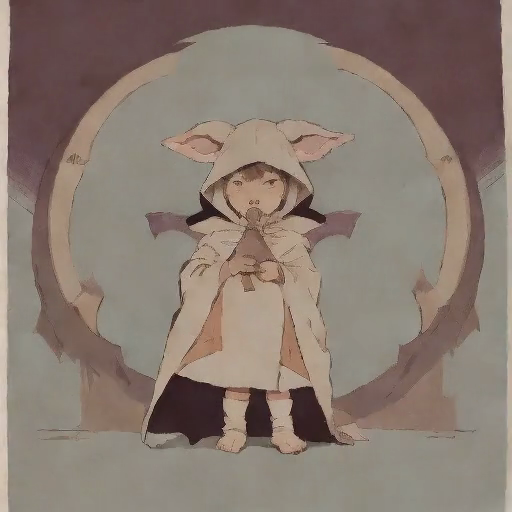
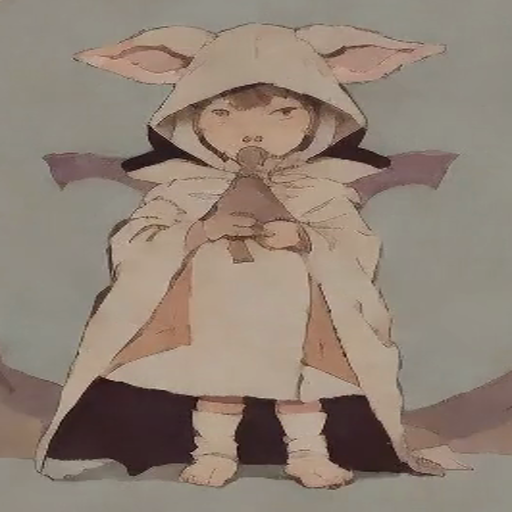
0.35 is the setting; and a reference is copied entirely, background included
Three strengths on the same four beats of 002b, in
~/Desktop/banyan-drops/GOBLIN-3-strengths.png:

  none  four different characters
  0.60  consistent identity, but the reference dictates COMPOSITION — a sprint and
        a close-up both became a centred standing figure, and two of four blanked
  0.35  consistent identity AND the prompt drives framing again; the close-up
        stayed a close-up; no blanks; contrast 38-62

So 0.35 it is, and character consistency across 166 shots is a solved problem on
free compute.

The other finding is my own mistake and worth recording where the next person will
hit it. Every conditioned shot came back with a soft circular vignette, which I
first read as an IP-Adapter artefact. It was not: my reference was cropped loosely
from a rendered frame that happened to contain a stone arch, and IP-Adapter was
reproducing it faithfully — including the scenery. A character reference is copied
ENTIRELY. It must be the character and as little else as possible: figure centred,
plain ground, no props, no framing device.

jerry.png is re-cropped tight to the figure, and refs/README.md now states the rule
plus the measured strength table, so choosing a reference does not have to rediscover
either.

diff --git a/genomes/sapling/refs/README.md b/genomes/sapling/refs/README.md
@@ -15,8 +15,27 @@ is conditioned on it:
 
 | file | character | source |
 |---|---|---|
-| `jerry.png` | the goblin keeper — small, hooded, enormous ears, patchwork cloak | frame from 002b beat 3, the closest render to `style.md`'s model sheet |
+| `jerry.png` | the goblin keeper — small, hooded, enormous ears, pale cloak | frame from 002b beat 3, tightly cropped to the figure |
 
 Replacing a reference re-casts that character everywhere, which is a taste call
 (R4) and belongs to the founder. Adding one for the farmer, the magistrate and the
 assessor is the obvious next step once the goblin proves the mechanism.
+
+## A reference is copied entirely, background included
+
+The first version of `jerry.png` was cropped loosely from a rendered frame that
+happened to contain a stone arch behind him. Every shot conditioned on it came back
+with a soft circular vignette — IP-Adapter was reproducing the reference faithfully,
+including the part that was scenery. It is a character reference, so it must contain
+the character and as little else as possible: figure centred, plain ground, no
+props, no framing device, no distinctive lighting.
+
+## Strength
+
+`IPA_SCALE` in the notebook. Measured on four beats of 002b:
+
+| scale | identity | composition |
+|---|---|---|
+| 0 (none) | four different characters | free |
+| 0.6 | consistent | reference dictates it — a sprint and a close-up both became a centred standing figure, and two of four went blank |
+| **0.35** | consistent | prompt drives it again; a close-up stayed a close-up |
